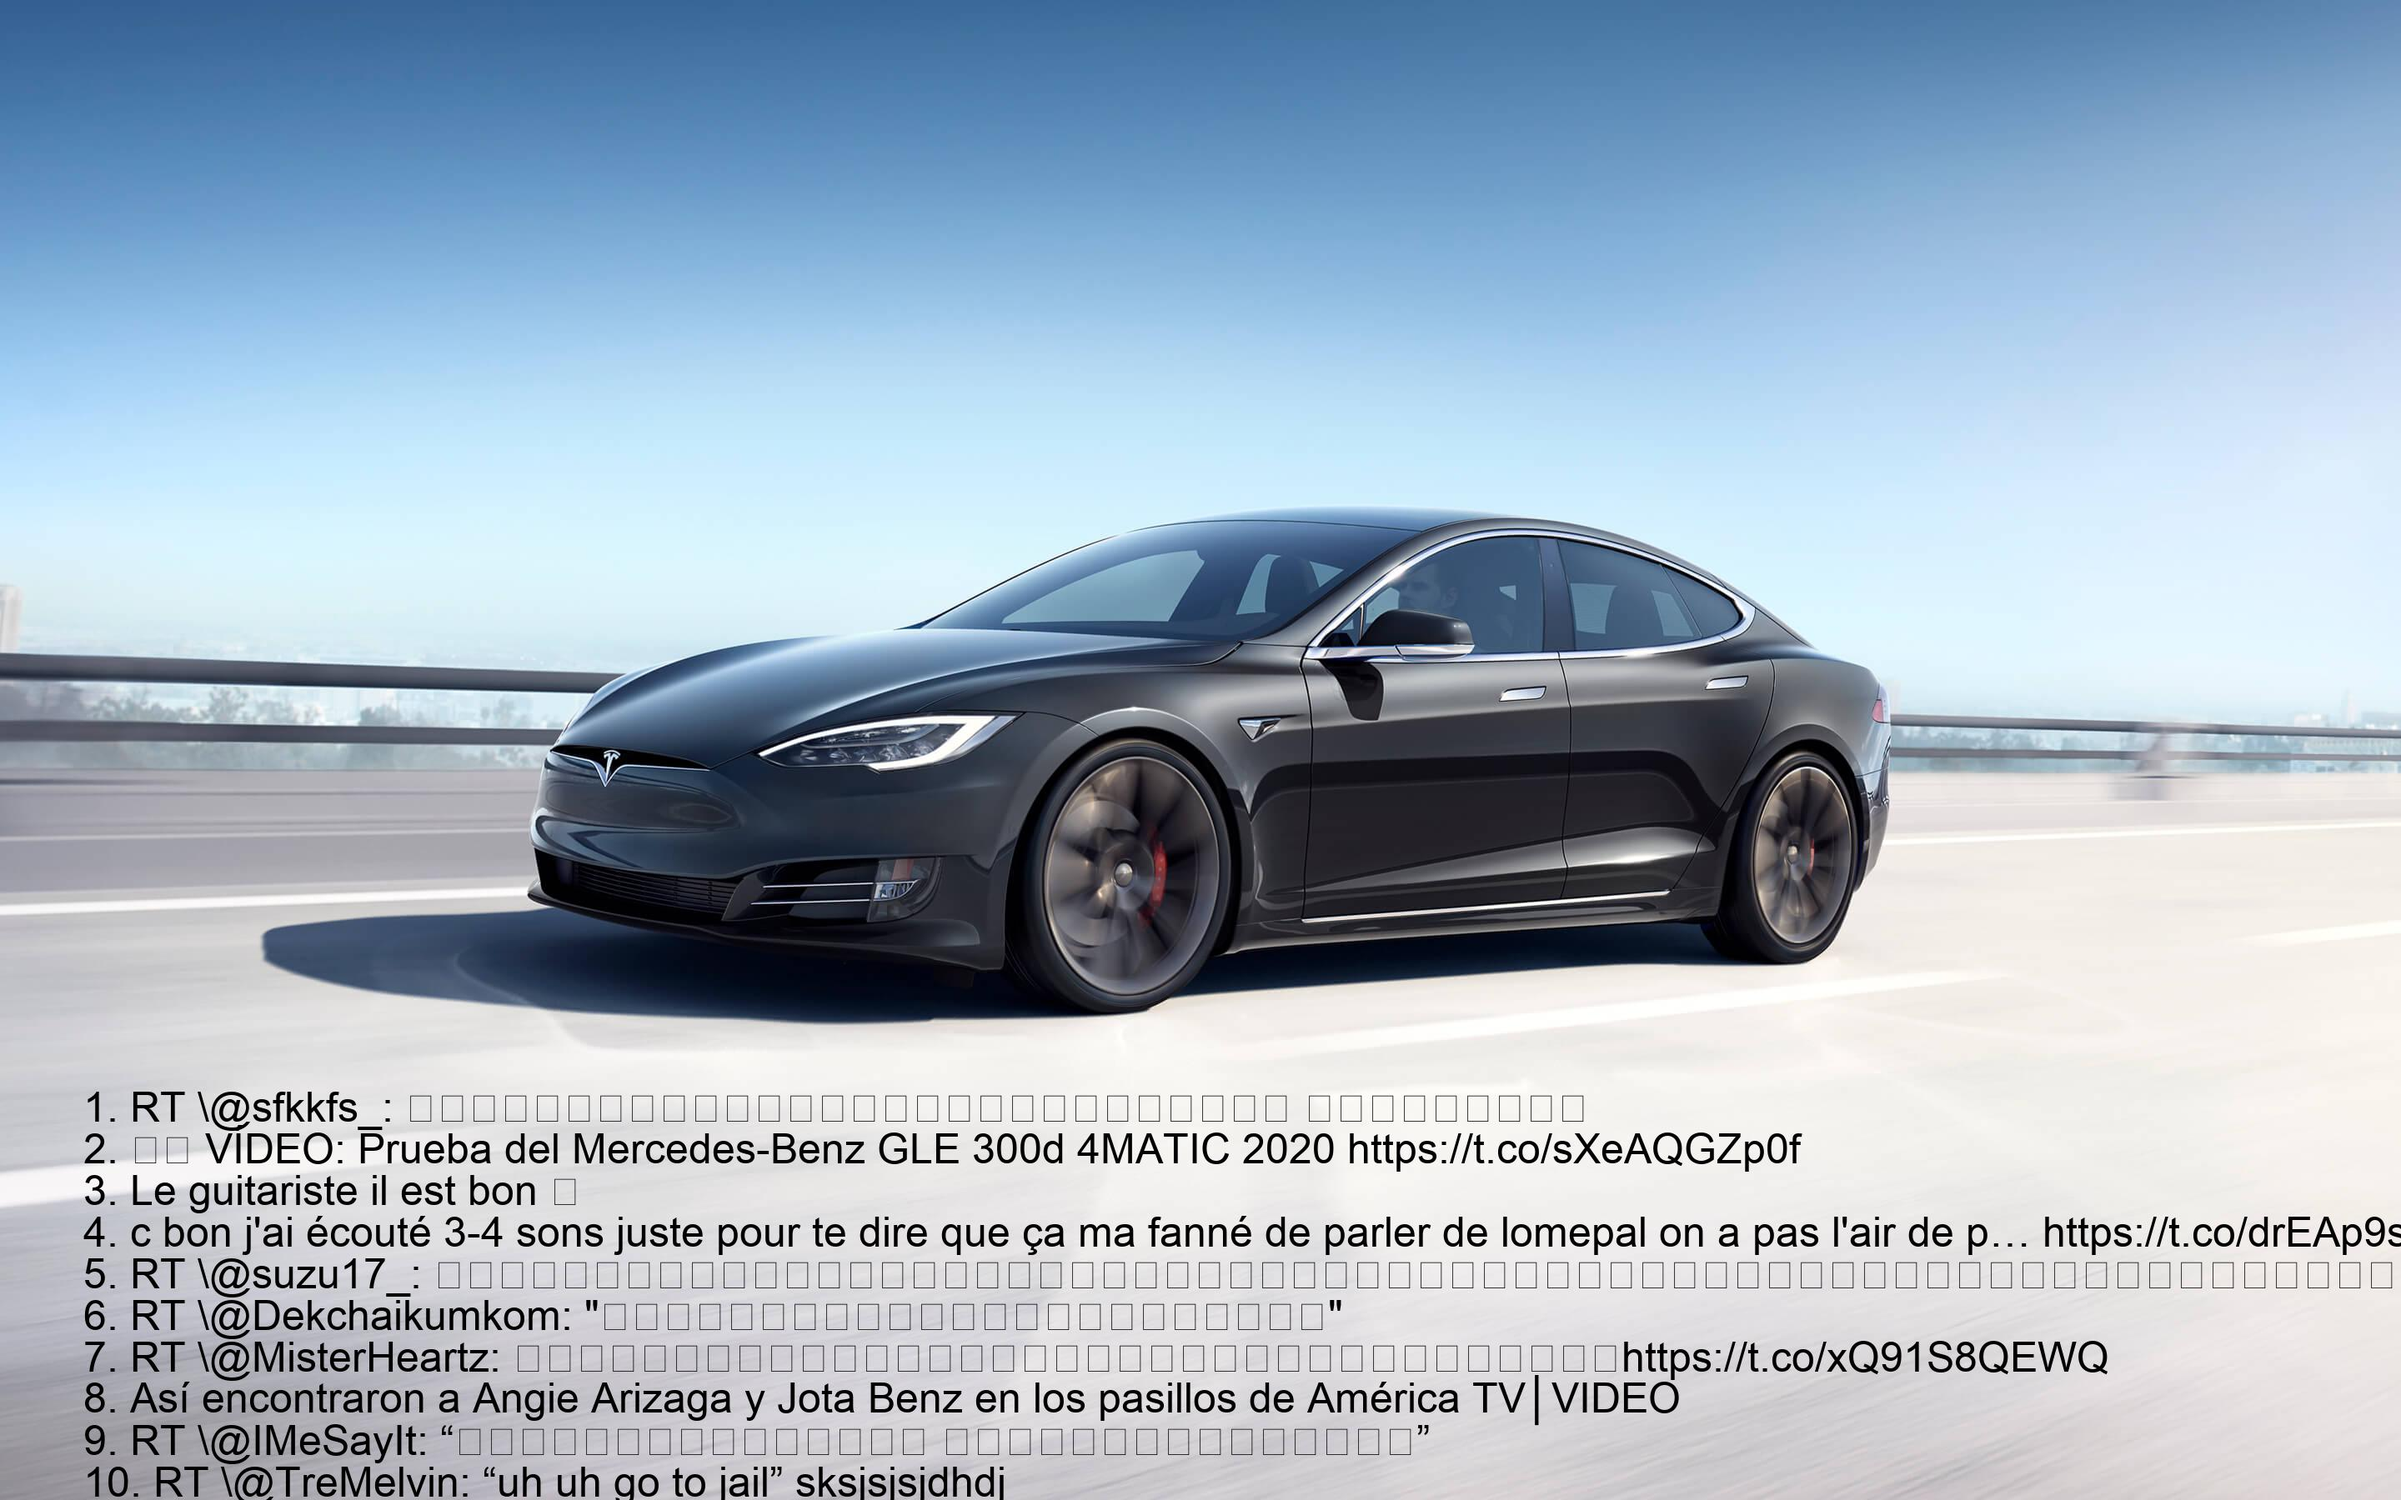
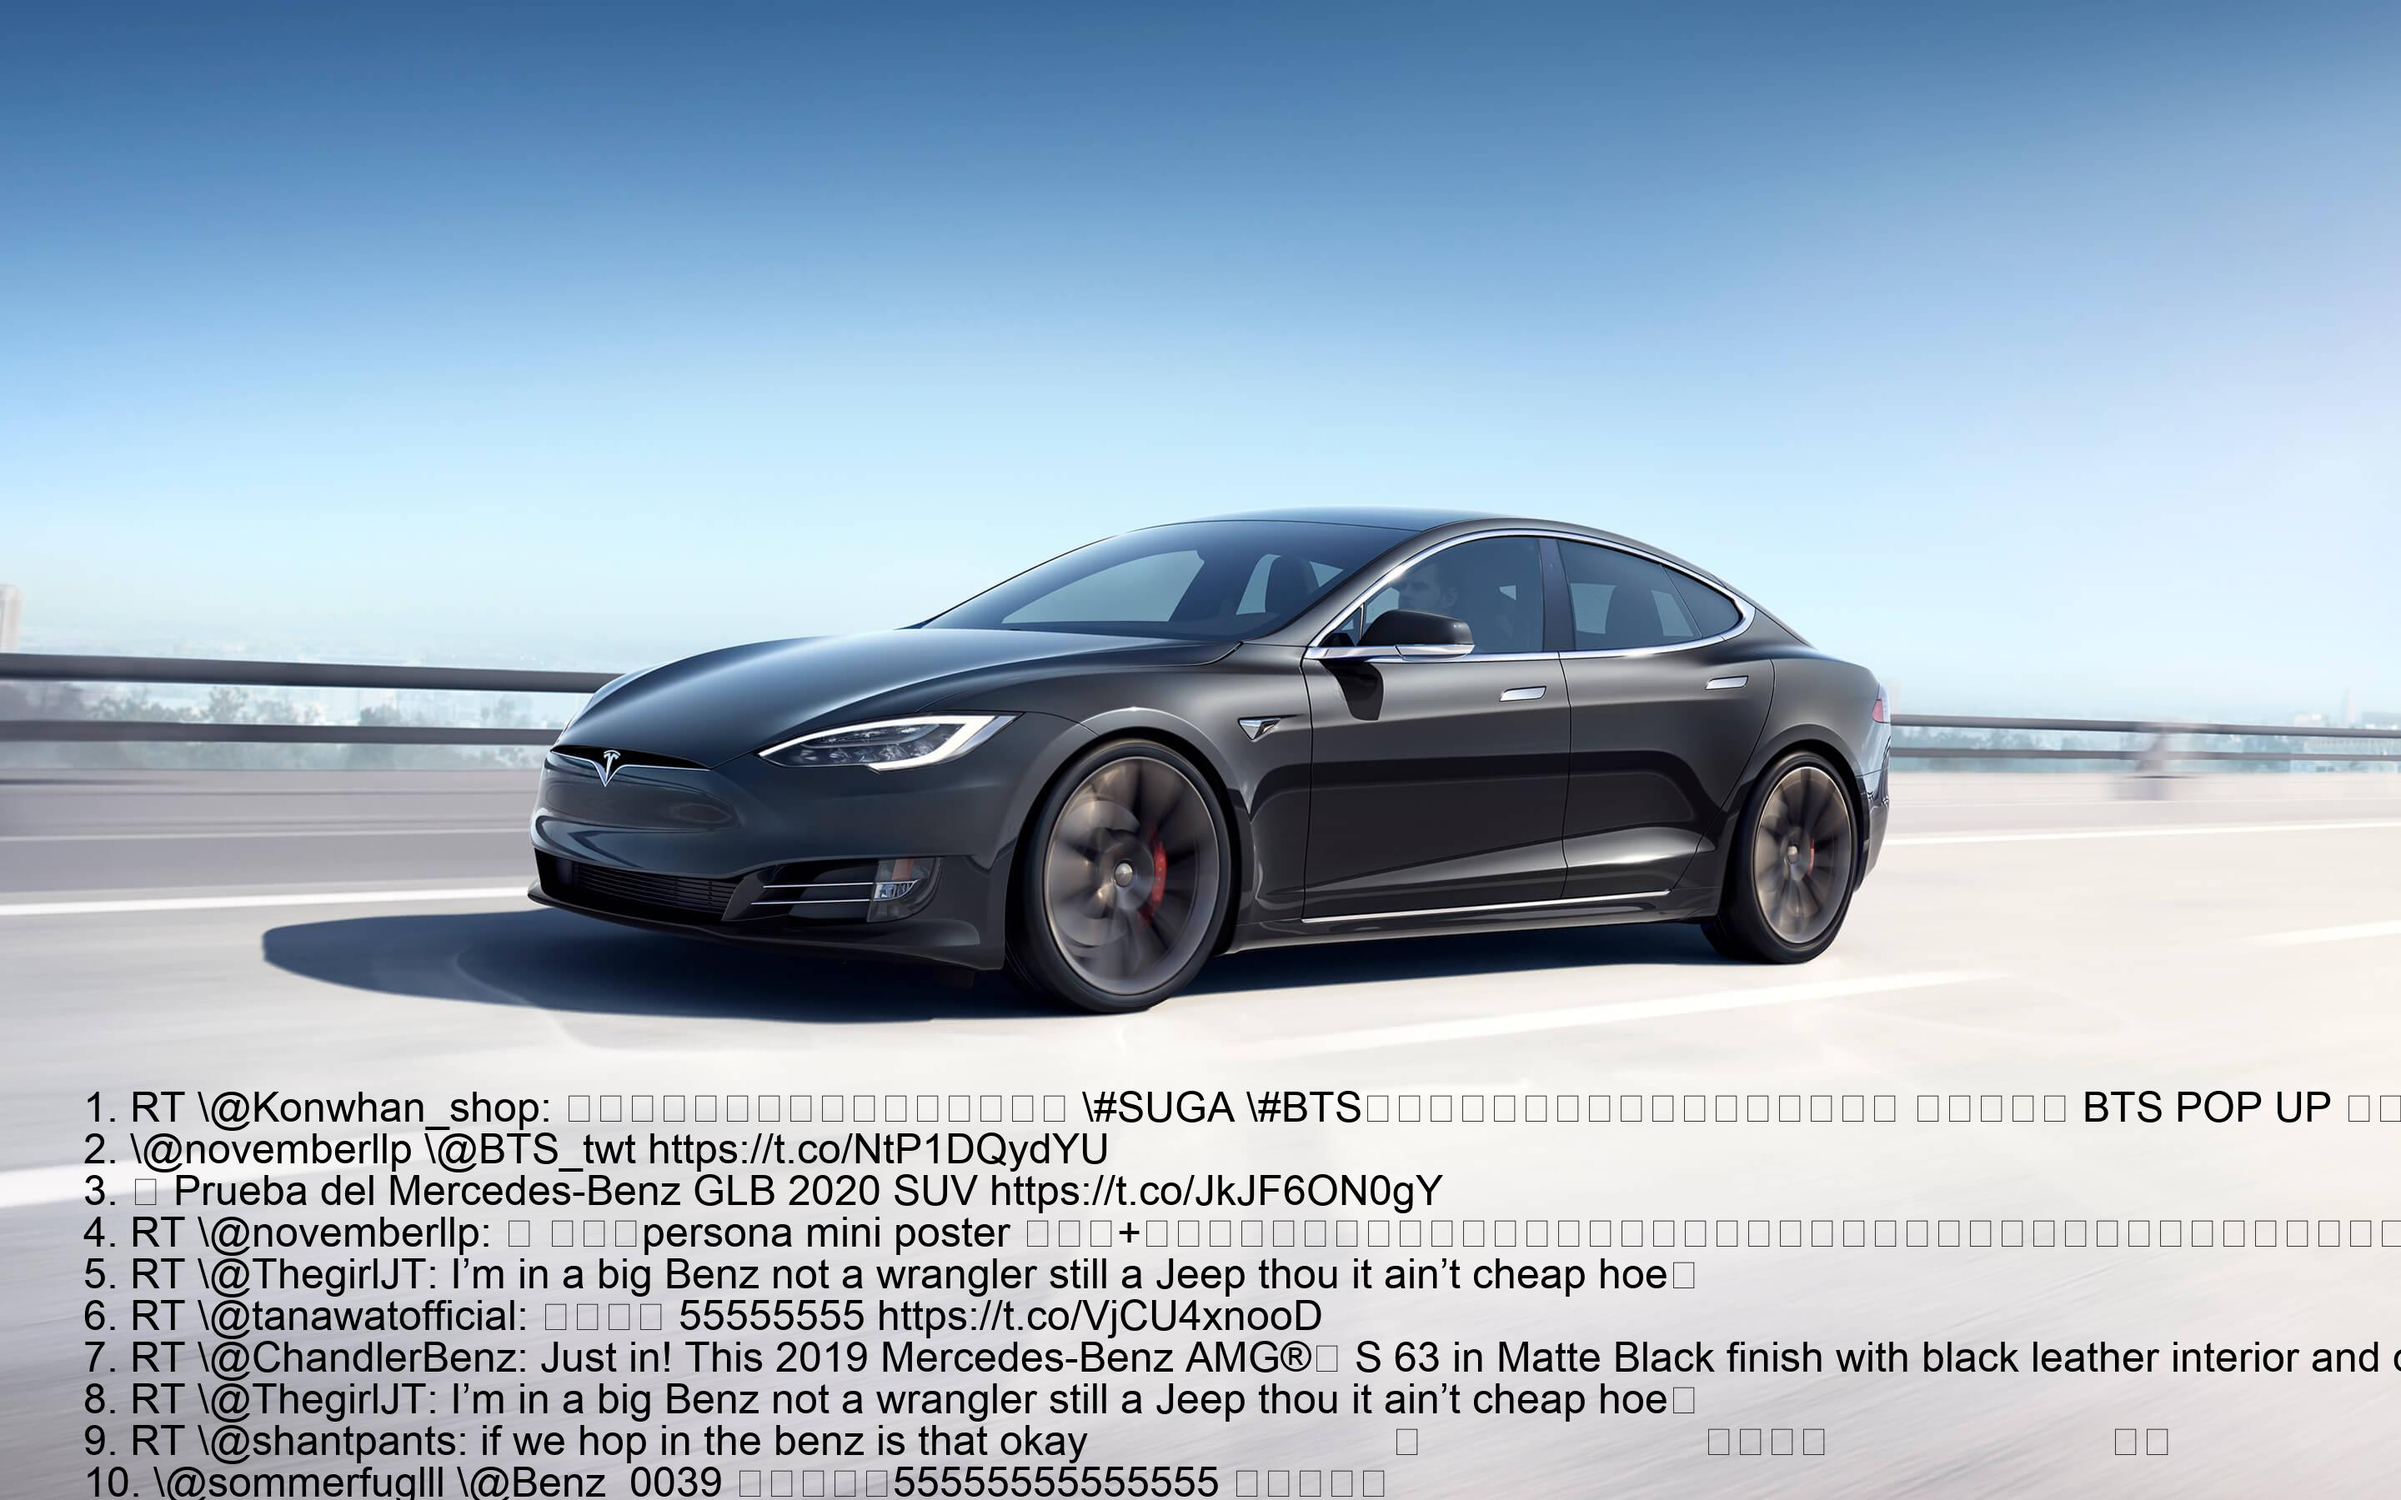
updated

Changed region(s): [[0.0625, 0.7156, 1.0, 1.0], [0.8438, 0.7156, 0.9688, 0.7467]]

diff --git a/Part 2/hw4_tweepy.py b/Part 2/hw4_tweepy.py
@@ -1,24 +1,30 @@
 import tweepy
+import os
 import re
 from PIL import Image, ImageDraw, ImageFont
+import configparser
+import json
+
+
 
 def tweets_get(key):
     '''Get the text from twitter using tweepy and convert text into image'''
+    config = configparser.ConfigParser()
+    file = 'keys'
+    if os.path.exists(file) :
+        config.read(file)
+        auth = tweepy.OAuthHandler(config.get('auth', 'consumer_key').strip(), config.get('auth', 'consumer_secret').strip())
+        auth.set_access_token(config.get('auth', 'access_token').strip(), config.get('auth', 'access_token_secret').strip())
+        api = tweepy.API(auth, parser=tweepy.parsers.JSONParser())
+        public_tweets = api.user_timeline(key)
+        with open("data.json","w") as f:
 
+            json.dump(public_tweets,f)
+    else :
+        with open('data.json', 'r') as f:
+            public_tweets = json.load(f)
 
-    consumer_key = 'BePXBQnnodwym2KOVSVaDGMJt'
-    consumer_secret = 'vj4G9SYGRzHWZLwHoHtsUjqeBNgQQY7q4FFPnxs3SkTDGfaQ7E'
-    access_token = '1171640747352842244-WPkonJaaXqQFSDJPwyT218uYW6WsSO'
-    access_token_secret = 'izFind6UV5DghAsQLdXxoo2TVpks7hv8mJ5lEKG32r0Kl'
-
-    auth = tweepy.OAuthHandler(consumer_key, consumer_secret)
-    auth.set_access_token(access_token, access_token_secret)
-
-    api = tweepy.API(auth)
-
-    public_tweets = api.search(q=key, count=10)
     setFont = ImageFont.truetype('/Library/Fonts/Arial.ttf', 50)
-
     count = 0;
     color = "#000000"
     header_y = 500
@@ -30,20 +36,24 @@ def tweets_get(key):
 
     for tweets in public_tweets:
         gap = '\n'
-        list_contain_tweets = list(tweets.text)
+        for key, value in tweets.items():
+            if key == 'text':
+                list_contain_tweets = list(value)
+        #list_contain_tweets = list(tweets.text)
+
         for n in range(len(list_contain_tweets)):
             if (n % 60 == 0):
                 list_contain_tweets.insert(n, gap)
 
-        tweets.text = ''.join(list_contain_tweets)
-        tweets.text = re.sub("#", r'\#', tweets.text)
-        tweets.text = re.sub("@", r'\@', tweets.text)
-        tweets.text = re.sub('\n', '', tweets.text)
+        tweets_text = ''.join(list_contain_tweets)
+        tweets_text = re.sub("#", r'\#', tweets_text)
+        tweets_text = re.sub("@", r'\@', tweets_text)
+        tweets_text = re.sub('\n', '', tweets_text)
 
-        tweets.text = tweets.text + '\n'
-        tweets_contain.append(tweets.text)
+        # tweets.text = tweets.text + '\n'
+        tweets_contain.append(tweets_text)
 
-        print(tweets.text)
+        print(tweets_text)
 
 
     for num, content in enumerate(tweets_contain):
